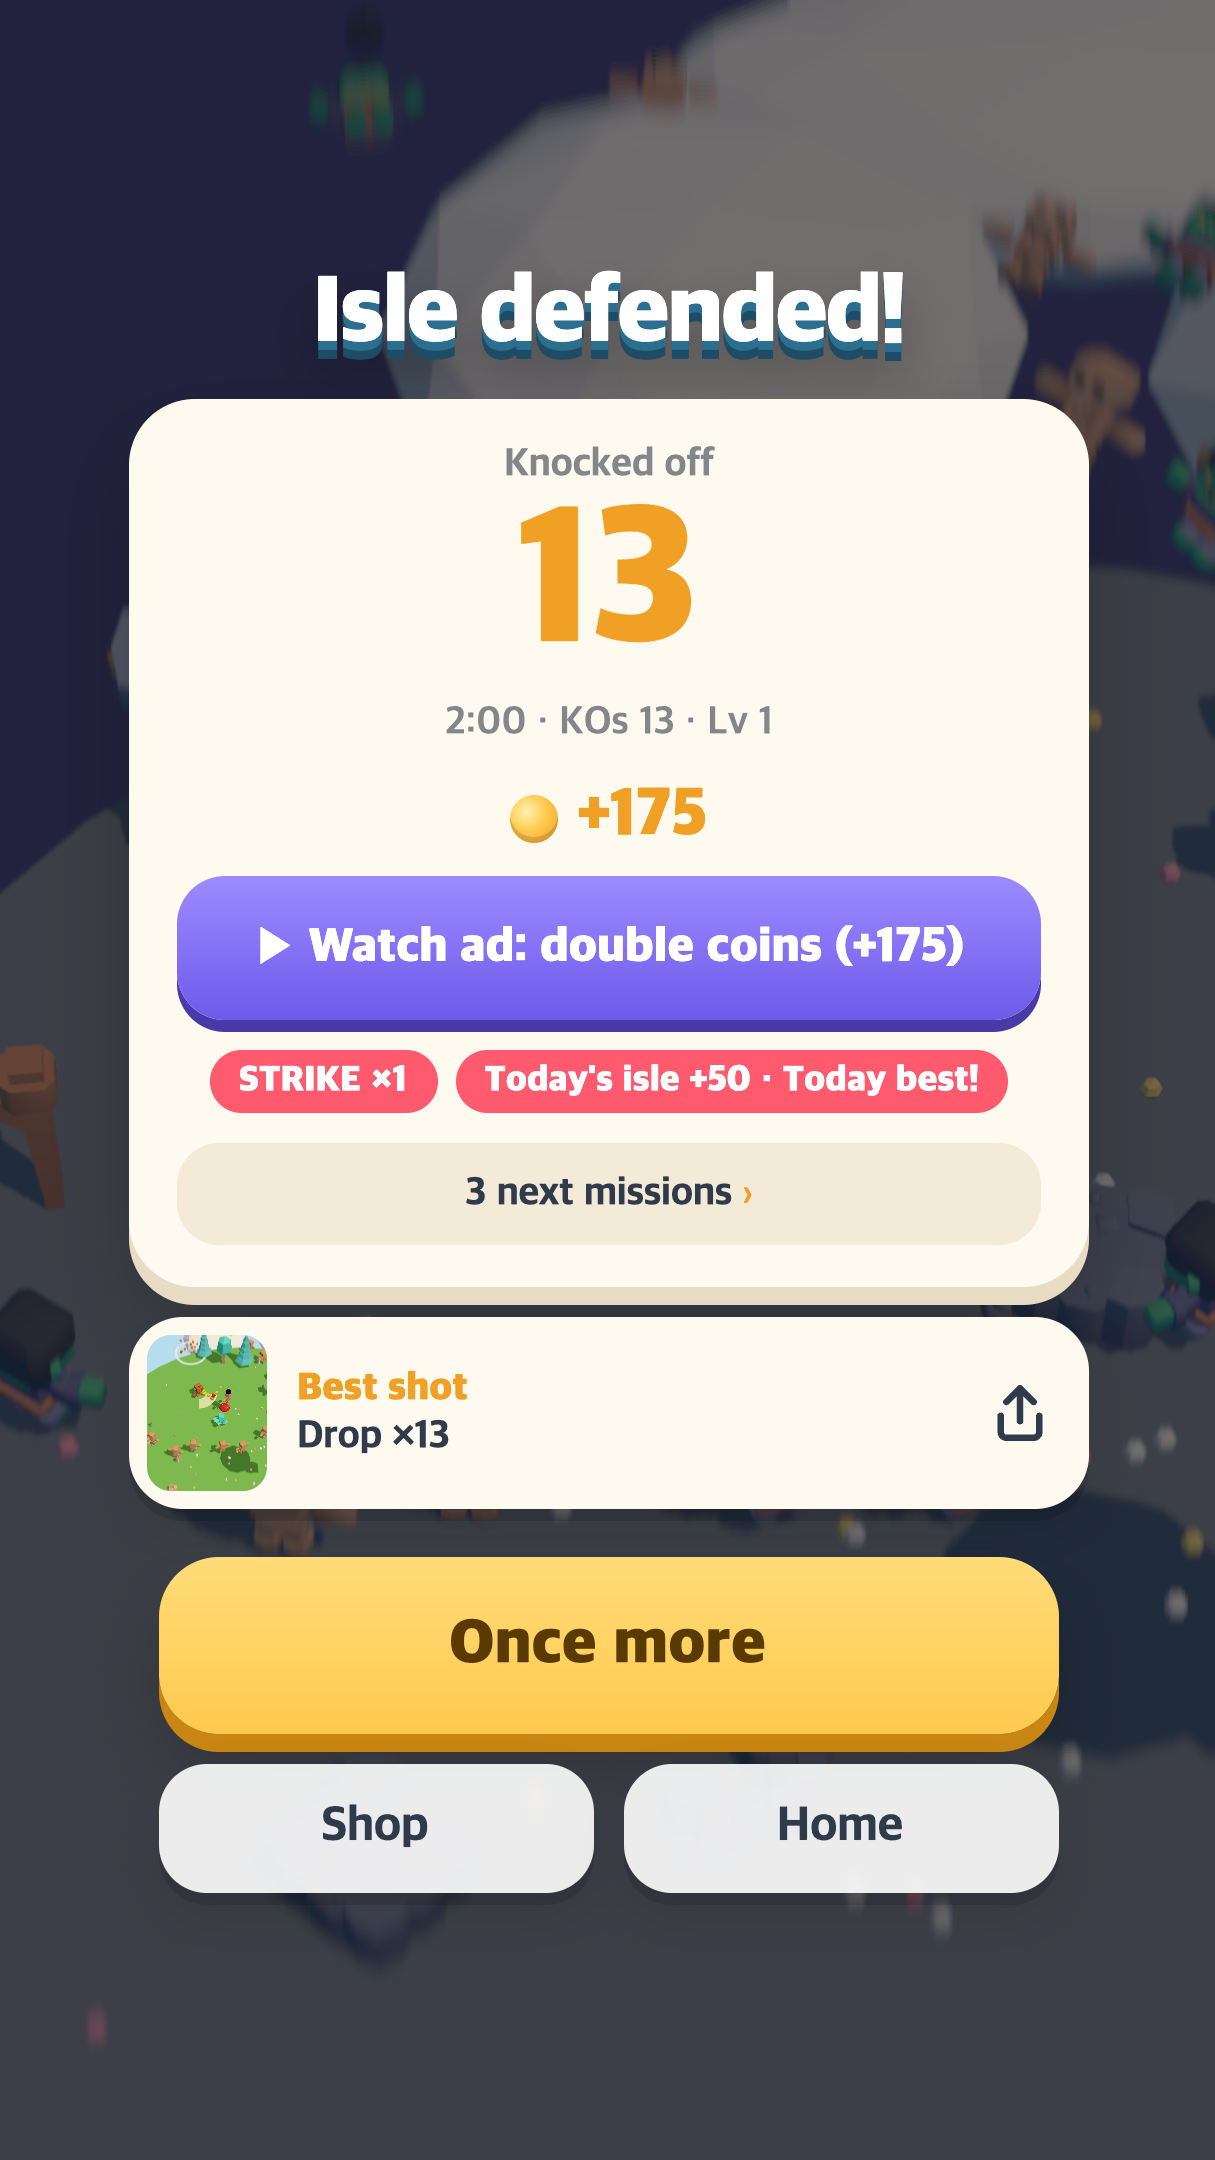
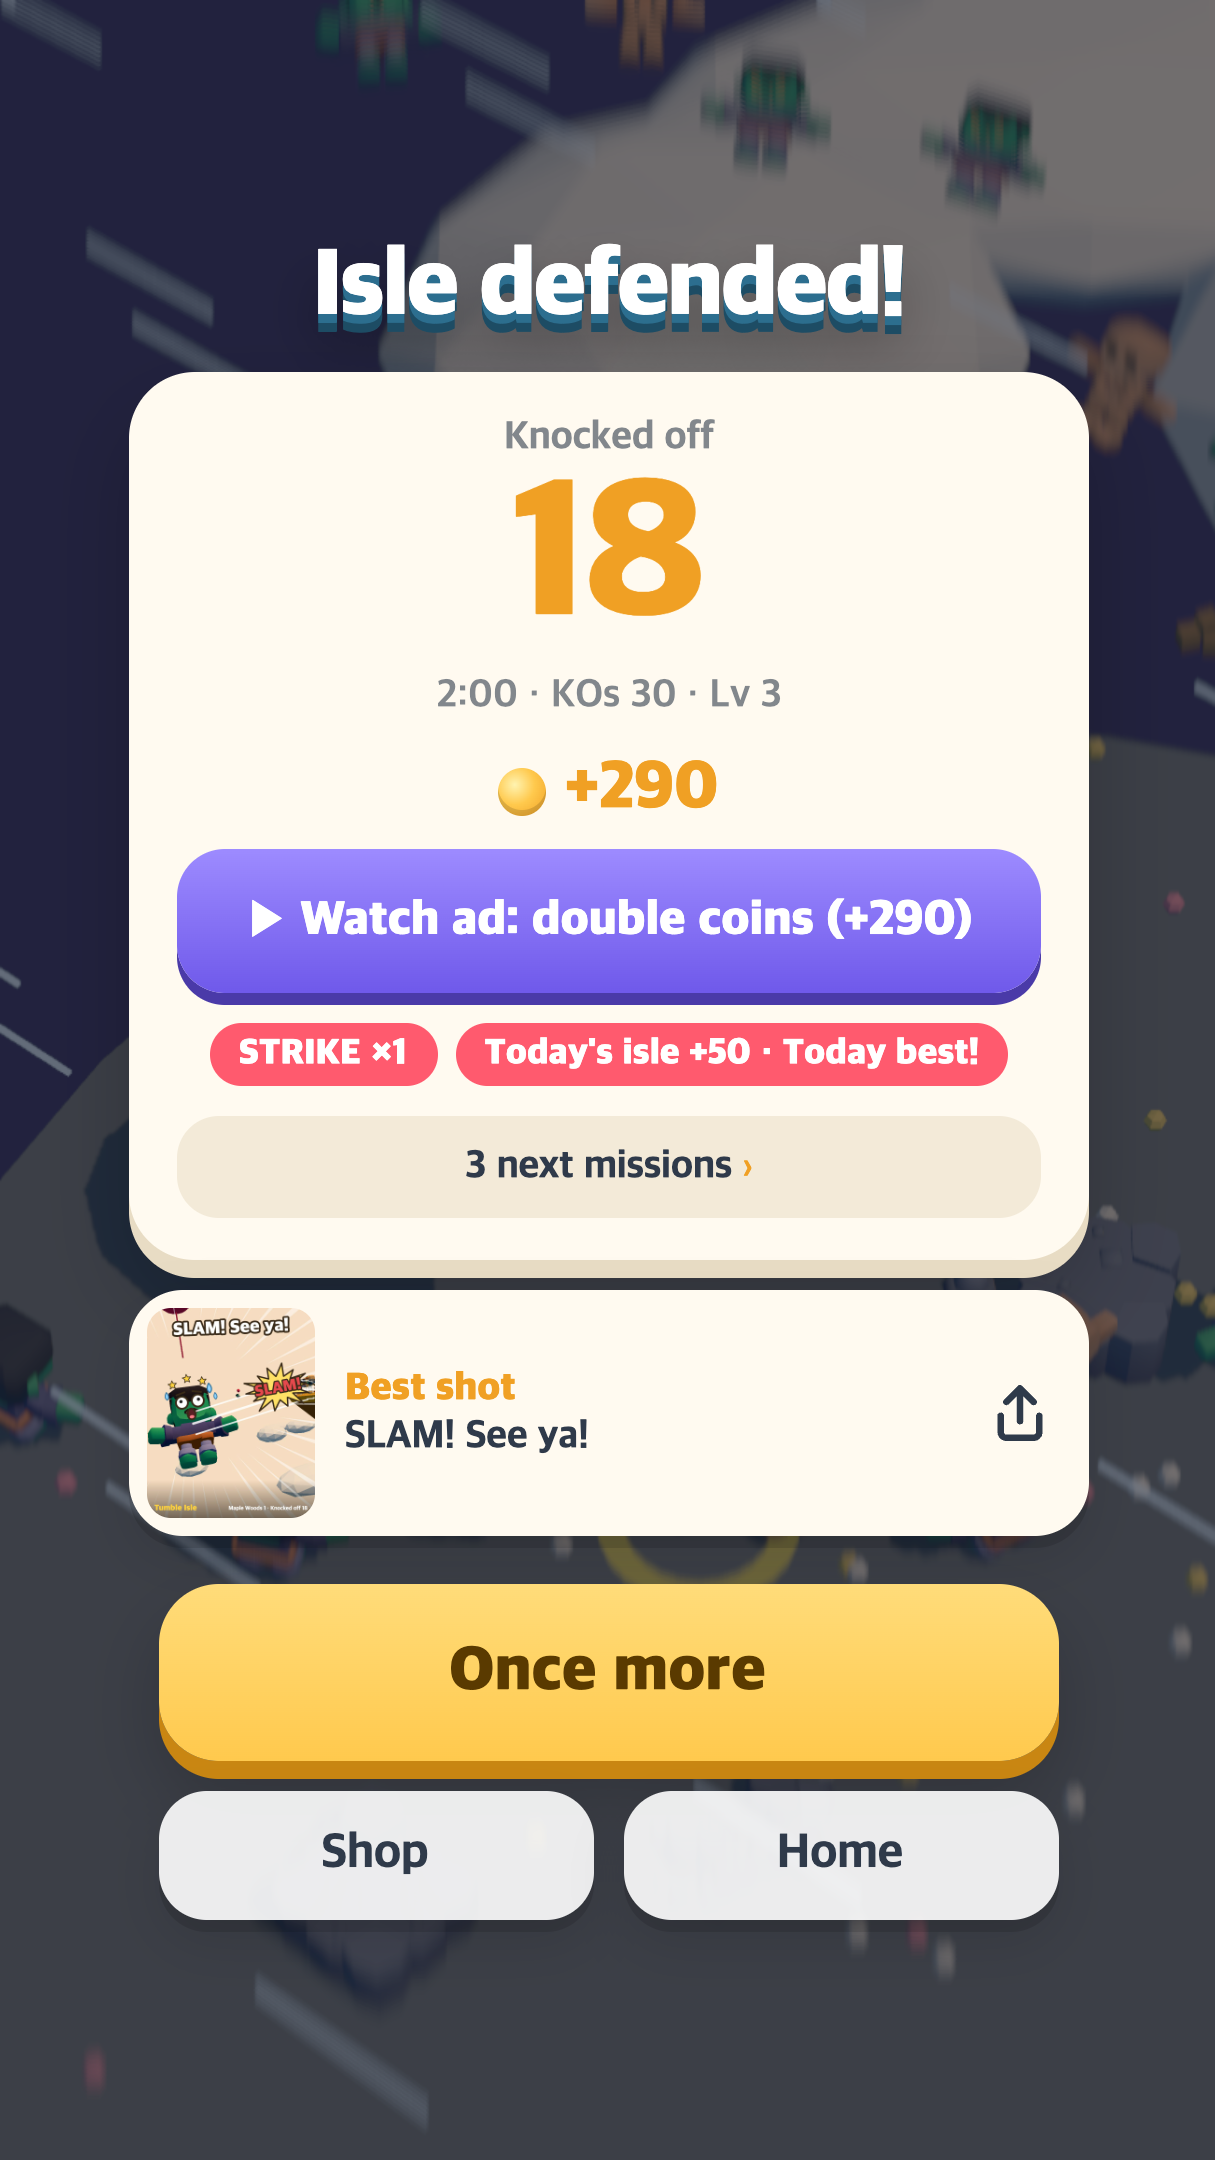
스토어 문구·스크린샷을 최신 게임에 맞춤, 홍보 영상 끝 문구 「프로필 링크에서 다운로드」
- STORE_LISTING: 큰 무기·Foam Twins·베스트 컷 클로즈업 카드로 고침(Play Console 등록정보에 한·영 입력·임시 저장)
- 스토어 8번 스크린샷을 새 공유 카드로 다시 찍음
- 쇼츠 끝 카드·게시 문구: 곧 출시 → 프로필 링크에서 다운로드

diff --git a/docs/STORE_LISTING.md b/docs/STORE_LISTING.md
@@ -94,13 +94,13 @@ Google Play 먼저(2026-11-17 초안, 기획 담당. 같은 날 무기 8종·언
 맞은 적이 높이 떠오르는 저중력 달 기지.
 
 ■ 져도 남는 성장
-· 판이 끝나면 코인으로 영구 강화 6종: 튼튼한 몸, 큰 망치, 쾅! 충전, 카드 달인, 두 번째 기회, 코인 주머니
+· 판이 끝나면 코인으로 영구 강화 6종: 튼튼한 몸, 큰 무기, 쾅! 충전, 카드 달인, 두 번째 기회, 코인 주머니
 · 캡슐을 돌려 새 캐릭터를 얻으세요. 오크, 묘지기, 흡혈귀, 유령 — 캐릭터마다 특성이 다릅니다
 · 매번 바뀌는 미션 3개, 해낸 만큼 섬에 금 동상과 금 호박 트로피가 쌓입니다
 
 ■ 날마다 오늘의 섬, 그리고 베스트 컷
 · 오늘의 섬은 날마다 바뀌고, 그날 처음 지켜 내면 보너스 코인
-· 한 판에서 가장 많이 이어 떨어뜨린 순간을 사진으로 남겨 바로 공유
+· 한 판에서 가장 멀리 날려 보낸 순간을 놀란 표정까지 클로즈업한 카드로 남겨 바로 공유
 
 ■ 편하게 즐기세요
 · 강제로 뜨는 광고가 없습니다. 광고는 원할 때 직접 눌러 보는 보상형뿐이에요(코인 2배, 이어 하기, 무료 캡슐)
@@ -133,8 +133,8 @@ and when the gauge is full, hit SLAM! to blast everyone around you away.
 · Balloon skeletons, bomb skeletons, shield zombies — each one needs a different trick
 
 ■ 8 weapons, the right one for every stage
-· You start with a mallet. Clear stages to unlock the Squeaky Hammer, Sledgehammer, Twin Foam Swords, Frying Pan, Bat, Punch Pole and Giant Fan, one by one
-· Every weapon feels different: lift the Sledgehammer high and slam it down, rattle off quick hits with the Twin Foam Swords, or crack foes far away with the Bat
+· You start with a mallet. Clear stages to unlock the Squeaky Hammer, Sledgehammer, Foam Twins, Frying Pan, Bat, Punch Pole and Giant Fan, one by one
+· Every weapon feels different: lift the Sledgehammer high and slam it down, rattle off quick hits with the Foam Twins, or crack foes far away with the Bat
 · With the mallet in hand, your SLAM! charges faster and hits wider
 · Every stage has its own twist: floating balloon skeletons, shield zombies, lines marching in from two sides — the matching weapon is equipped for you once it's unlocked, so just swing
 · The more you use a weapon, the more it grows: longer reach, quicker swings, harder hits
@@ -155,13 +155,13 @@ Some chapters even change the rules: double gales on the beach, icy ground where
 and low gravity on the Moon Base that sends them floating high.
 
 ■ Lose a run, still get stronger
-· Spend coins on 6 permanent upgrades: Sturdy, Big Mallet, Slam Charge, Card Master, Second Chance and Coin Pouch
+· Spend coins on 6 permanent upgrades: Sturdy, Big Weapon, Slam Charge, Card Master, Second Chance and Coin Pouch
 · Spin capsules to unlock new heroes — Orc, Keeper, Vampire and Ghost, each with their own perk
 · Three missions that keep changing, and golden statues and pumpkins pile up on your island as trophies
 
 ■ Today's Isle and your Best Shot
 · A new Today's Isle every day, with bonus coins for your first clear
-· Your biggest chain of drops in a run is saved as a photo, ready to share
+· The best knock-off of each run becomes a close-up card, shocked face and all, ready to share
 
 ■ Play your way
 · No forced ads. Ads only play when you choose to watch one for a reward (double coins, continue, free capsule)

diff --git a/marketing/shorts/README.md b/marketing/shorts/README.md
@@ -26,7 +26,7 @@ npm exec --yes --package=playwright@1.65.0 -- node marketing/shorts/make-short.m
 | 11.2~13.6 | 큰 부채 바람 | 큰 부채 — 휘이잉~ |
 | 13.6~17.0 | 왕좀비 % 오름 → 망치로 날림(약 15.5초) | 왕좀비도 섬 밖으로! |
 | 17.0~20.2 | 공유 카드(그 판의 베스트 컷 「왕좀비, 퇴장!」) | 제일 멀리 날린 순간을 / 카드로 공유! |
-| 20.2~23.4 | 끝 카드: 아이콘·망치섬·한 줄 소개·Google Play 곧 출시 | — |
+| 20.2~23.4 | 끝 카드: 아이콘·망치섬·한 줄 소개·프로필 링크에서 다운로드 | — |
 
 자막은 위쪽 약 230~420px(1920 기준)에 두어 플랫폼 UI가 덮는 위 10%·아래 20%를 피했습니다. 영어판은 왕좀비가 떨어지는 때가 조금 달라 0.5초쯤 깁니다.
 
@@ -44,7 +44,7 @@ npm exec --yes --package=playwright@1.65.0 -- node marketing/shorts/make-short.m
   하늘에 뜬 작은 섬, 몰려드는 적을 망치로 쳐서 섬 밖으로 날려 보내는 서바이벌 액션.
   대형 해머·야구방망이·스펀지 쌍검·큰 부채… 무기마다 손맛이 달라요.
   왕좀비까지 날려 보내고, 제일 멀리 날린 순간은 카드로 공유하세요.
-  망치섬 — Google Play 곧 출시
+  망치섬 — 프로필 링크에서 다운로드
   #망치섬 #모바일게임 #인디게임 #손맛게임 #서바이벌게임 #로우폴리 #shorts
   ```
 - Title (EN): `Bonk them right off the island!`
@@ -53,13 +53,13 @@ npm exec --yes --package=playwright@1.65.0 -- node marketing/shorts/make-short.m
   A tiny floating island, a horde closing in — bonk them all off the edge.
   Sledgehammer, Bat, Foam Twins, Giant Fan… every weapon feels different.
   Knock off the King Zombie, then share your best knock-off as a card.
-  Tumble Isle — coming soon on Google Play
+  Tumble Isle — download via the link in bio
   #TumbleIsle #mobilegame #indiegame #indiedev #survivalgame #lowpoly #shorts
   ```
 
 ### 인스타그램 릴스
-- 캡션(한): `쳐서 날려라! 하늘섬 망치 서바이벌 🔨 무기마다 손맛이 달라요. 망치섬, Google Play 곧 출시` + 해시태그 `#망치섬 #모바일게임 #인디게임 #게임개발 #손맛게임 #로우폴리 #서바이벌게임`
-- Caption (EN): `Bonk the horde off your tiny island 🔨 Every weapon hits different. Tumble Isle — coming soon on Google Play` + `#TumbleIsle #mobilegame #indiegame #gamedev #indiedev #lowpoly #survivalgame`
+- 캡션(한): `쳐서 날려라! 하늘섬 망치 서바이벌 🔨 무기마다 손맛이 달라요. 망치섬, 프로필 링크에서 다운로드` + 해시태그 `#망치섬 #모바일게임 #인디게임 #게임개발 #손맛게임 #로우폴리 #서바이벌게임`
+- Caption (EN): `Bonk the horde off your tiny island 🔨 Every weapon hits different. Tumble Isle — download via the link in bio` + `#TumbleIsle #mobilegame #indiegame #gamedev #indiedev #lowpoly #survivalgame`
 
 해시태그는 플랫폼마다 5~8개. 경쟁 게임 이름·플레이 시간 숫자·「1위·최고」 같은 과장은 넣지 않습니다.
 
